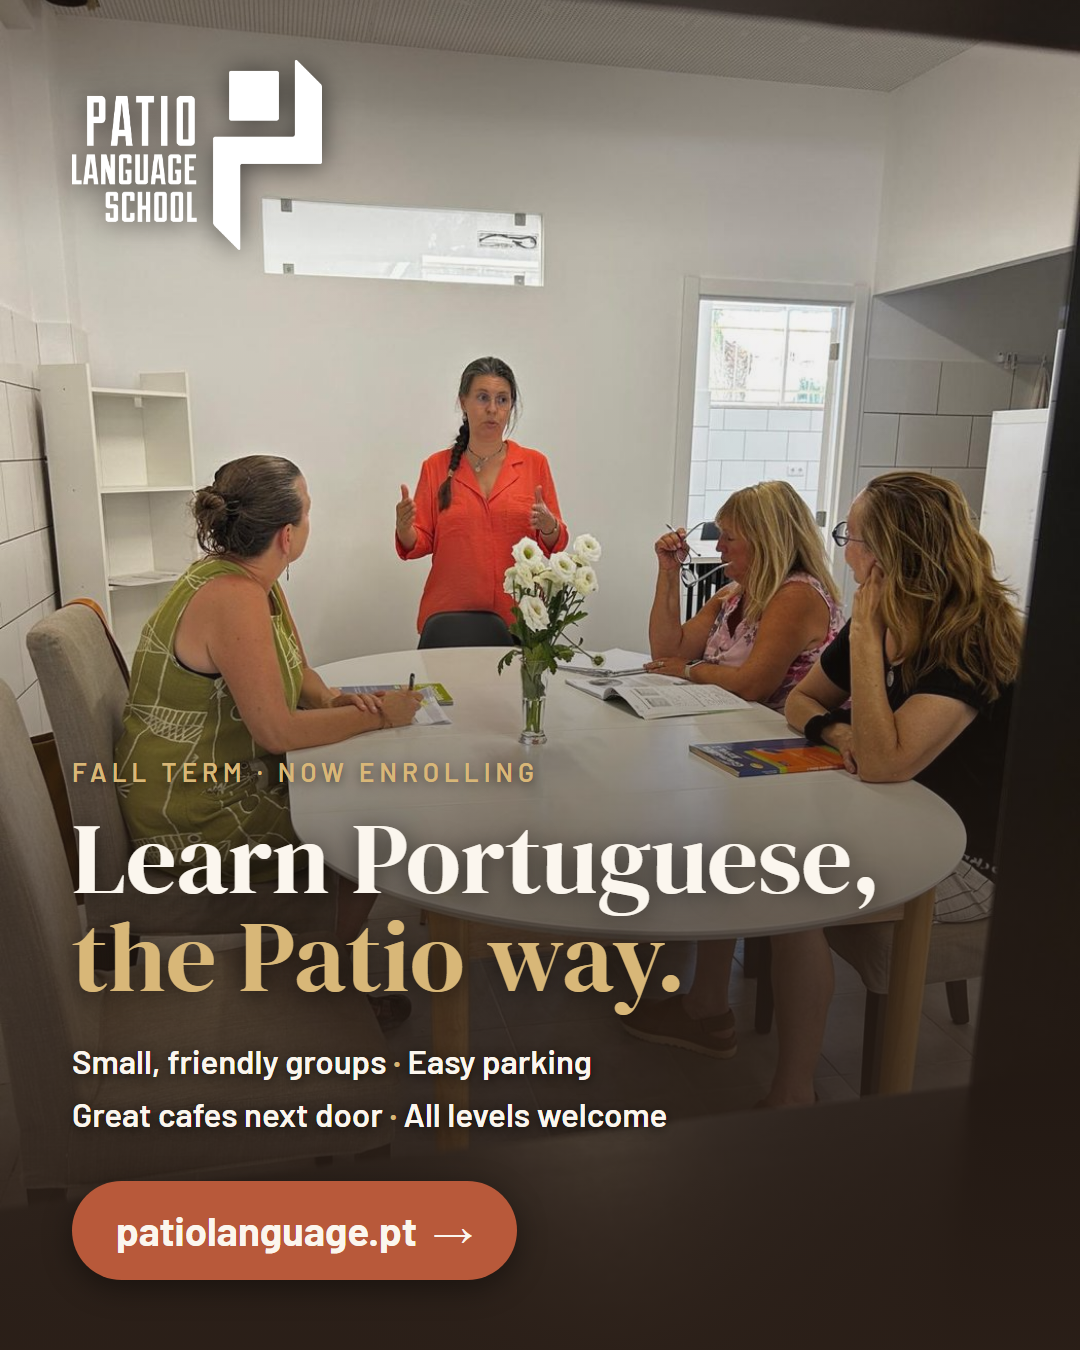
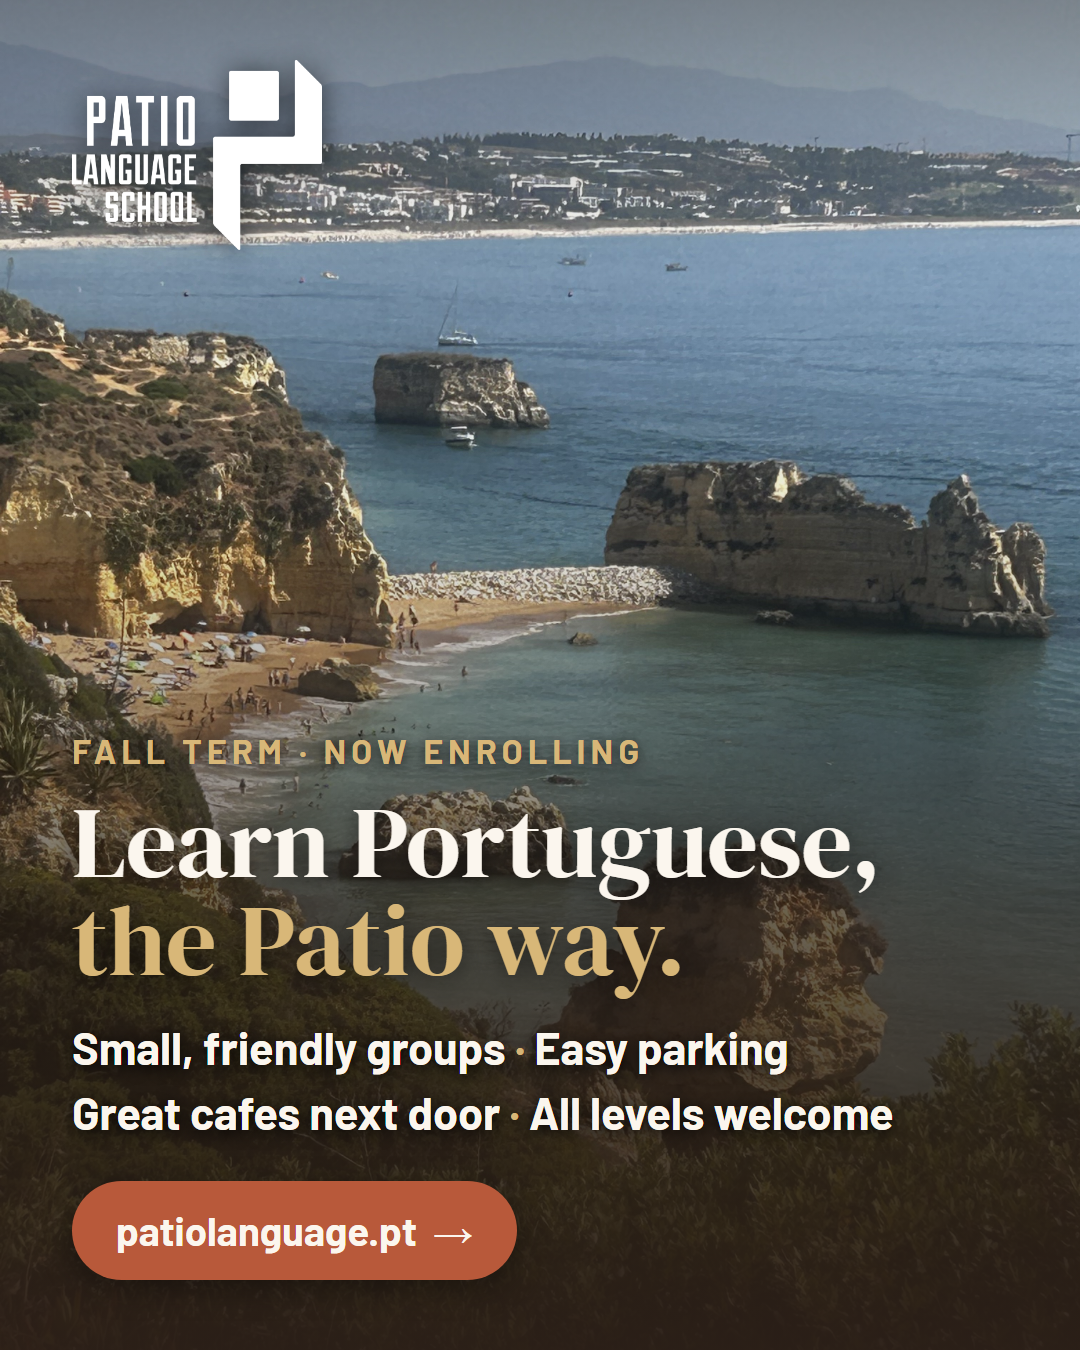
Redo sign-up "Learn Portuguese, the Patio way" on Praia Dona Ana
- Swap background to lagos-dona-ana.jpg (Claire's Praia Dona Ana photo)
- Add IG story format; enlarge eyebrow + perks for readability

diff --git a/social/build_signup.py b/social/build_signup.py
@@ -1,7 +1,7 @@
 #!/usr/bin/env python3
 """Fall-term sign-up hero for Patio Language School.
 Angle: small friendly groups, easy parking, cafes nearby, all levels.
-FB square 1080x1080 + IG portrait 1080x1350. Photo = class-standing.jpg.
+IG story 1080x1920 + IG portrait 1080x1350 + FB square 1080x1080. Photo = lagos-dona-ana.jpg.
 Renders HTML via headless Chrome. Fonts: DM Serif Display + Barlow. No dashes.
 """
 import base64, subprocess, os
@@ -10,7 +10,7 @@ HERE = os.path.dirname(os.path.abspath(__file__))
 ASSETS = r"C:/Users/Claire/Patio Language School/assets/img"
 CHROME = r"C:/Program Files/Google/Chrome/Application/chrome.exe"
 LOGO = os.path.join(ASSETS, "Patio-Language-School-Logo-White.png")
-PHOTO = os.path.join(ASSETS, "class-standing.jpg")
+PHOTO = os.path.join(ASSETS, "lagos-dona-ana.jpg")
 
 GOLD = "#D8B778"; TERRA = "#B8593A"; CREAM = "#FBF6EE"
 
@@ -42,11 +42,11 @@ def page(w, h, body, pos):
     .logo{{position:absolute;top:60px;left:72px;width:250px;
       filter:drop-shadow(0 2px 14px rgba(0,0,0,.6))}}
     .wrap{{position:absolute;left:72px;right:72px;bottom:70px}}
-    .eyebrow{{font-weight:600;font-size:26px;letter-spacing:5px;text-transform:uppercase;
-      color:{GOLD};margin-bottom:22px;text-shadow:0 2px 12px rgba(0,0,0,.55)}}
+    .eyebrow{{font-weight:700;font-size:34px;letter-spacing:5px;text-transform:uppercase;
+      color:{GOLD};margin-bottom:22px;text-shadow:0 2px 14px rgba(0,0,0,.7)}}
     .h1{{font-family:'DM Serif Display',serif;line-height:.98;
       text-shadow:0 3px 24px rgba(0,0,0,.6)}}
-    .perks{{font-weight:600;text-shadow:0 2px 12px rgba(0,0,0,.7);color:{CREAM}}}
+    .perks{{font-weight:700;text-shadow:0 3px 16px rgba(0,0,0,.98);color:{CREAM}}}
     .dot{{color:{GOLD};font-weight:700}}
     .gold{{color:{GOLD}}} .terra{{color:{TERRA}}}
     .pill{{display:inline-flex;align-items:center;gap:14px;background:{TERRA};color:{CREAM};
@@ -61,11 +61,11 @@ ig = f"""
 <div class="wrap">
   <div class="eyebrow">Fall term &middot; now enrolling</div>
   <div class="h1" style="font-size:100px">Learn Portuguese,<br><span class="gold">the Patio way.</span></div>
-  <div class="perks" style="font-size:33px;line-height:1.6;margin-top:30px">
+  <div class="perks" style="font-size:45px;line-height:1.45;margin-top:26px">
     Small, friendly groups <span class="dot">&middot;</span> Easy parking<br>
     Great cafes next door <span class="dot">&middot;</span> All levels welcome
   </div>
-  <div class="pill" style="font-size:40px;padding:25px 44px;margin-top:40px">
+  <div class="pill" style="font-size:40px;padding:25px 44px;margin-top:36px">
     patiolanguage.pt &nbsp;&rarr;
   </div>
 </div>
@@ -76,19 +76,35 @@ fb = f"""
 <div class="wrap" style="bottom:60px">
   <div class="eyebrow">Fall term &middot; now enrolling</div>
   <div class="h1" style="font-size:80px">Learn Portuguese,<br><span class="gold">the Patio way.</span></div>
-  <div class="perks" style="font-size:29px;line-height:1.55;margin-top:24px">
+  <div class="perks" style="font-size:41px;line-height:1.45;margin-top:20px">
     Small, friendly groups <span class="dot">&middot;</span> Easy parking<br>
     Great cafes next door <span class="dot">&middot;</span> All levels welcome
   </div>
-  <div class="pill" style="font-size:35px;padding:21px 40px;margin-top:32px">
+  <div class="pill" style="font-size:35px;padding:21px 40px;margin-top:28px">
+    patiolanguage.pt &nbsp;&rarr;
+  </div>
+</div>
+"""
+
+# IG story body
+story = f"""
+<div class="wrap" style="bottom:150px">
+  <div class="eyebrow">Fall term &middot; now enrolling</div>
+  <div class="h1" style="font-size:104px">Learn Portuguese,<br><span class="gold">the Patio way.</span></div>
+  <div class="perks" style="font-size:49px;line-height:1.45;margin-top:26px">
+    Small, friendly groups <span class="dot">&middot;</span> Easy parking<br>
+    Great cafes next door <span class="dot">&middot;</span> All levels welcome
+  </div>
+  <div class="pill" style="font-size:40px;padding:25px 44px;margin-top:36px">
     patiolanguage.pt &nbsp;&rarr;
   </div>
 </div>
 """
 
 JOBS = [
-    ("patio-signup-ig-1080x1350", 1080, 1350, ig, "center 20%"),
-    ("patio-signup-fb-1080x1080", 1080, 1080, fb, "center 16%"),
+    ("patio-signup-story-1080x1920", 1080, 1920, story, "center 44%"),
+    ("patio-signup-ig-1080x1350", 1080, 1350, ig, "center 44%"),
+    ("patio-signup-fb-1080x1080", 1080, 1080, fb, "center 48%"),
 ]
 for name, w, h, body, pos in JOBS:
     html = page(w, h, body, pos)
